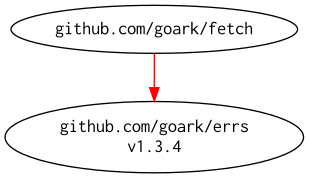
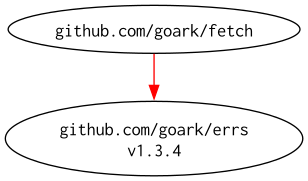
chore: update Go 1.26 metadata and task/dependency assets

diff --git a/README.md b/README.md
@@ -20,7 +20,7 @@ It wraps common `net/http` idioms so callers can handle download flows with less
 
 ### Requirements
 
-- Go 1.25 or later
+- Go 1.26 or later
 - [Task](https://taskfile.dev/) command (local tool for this repository)
 
 ### Local validation
